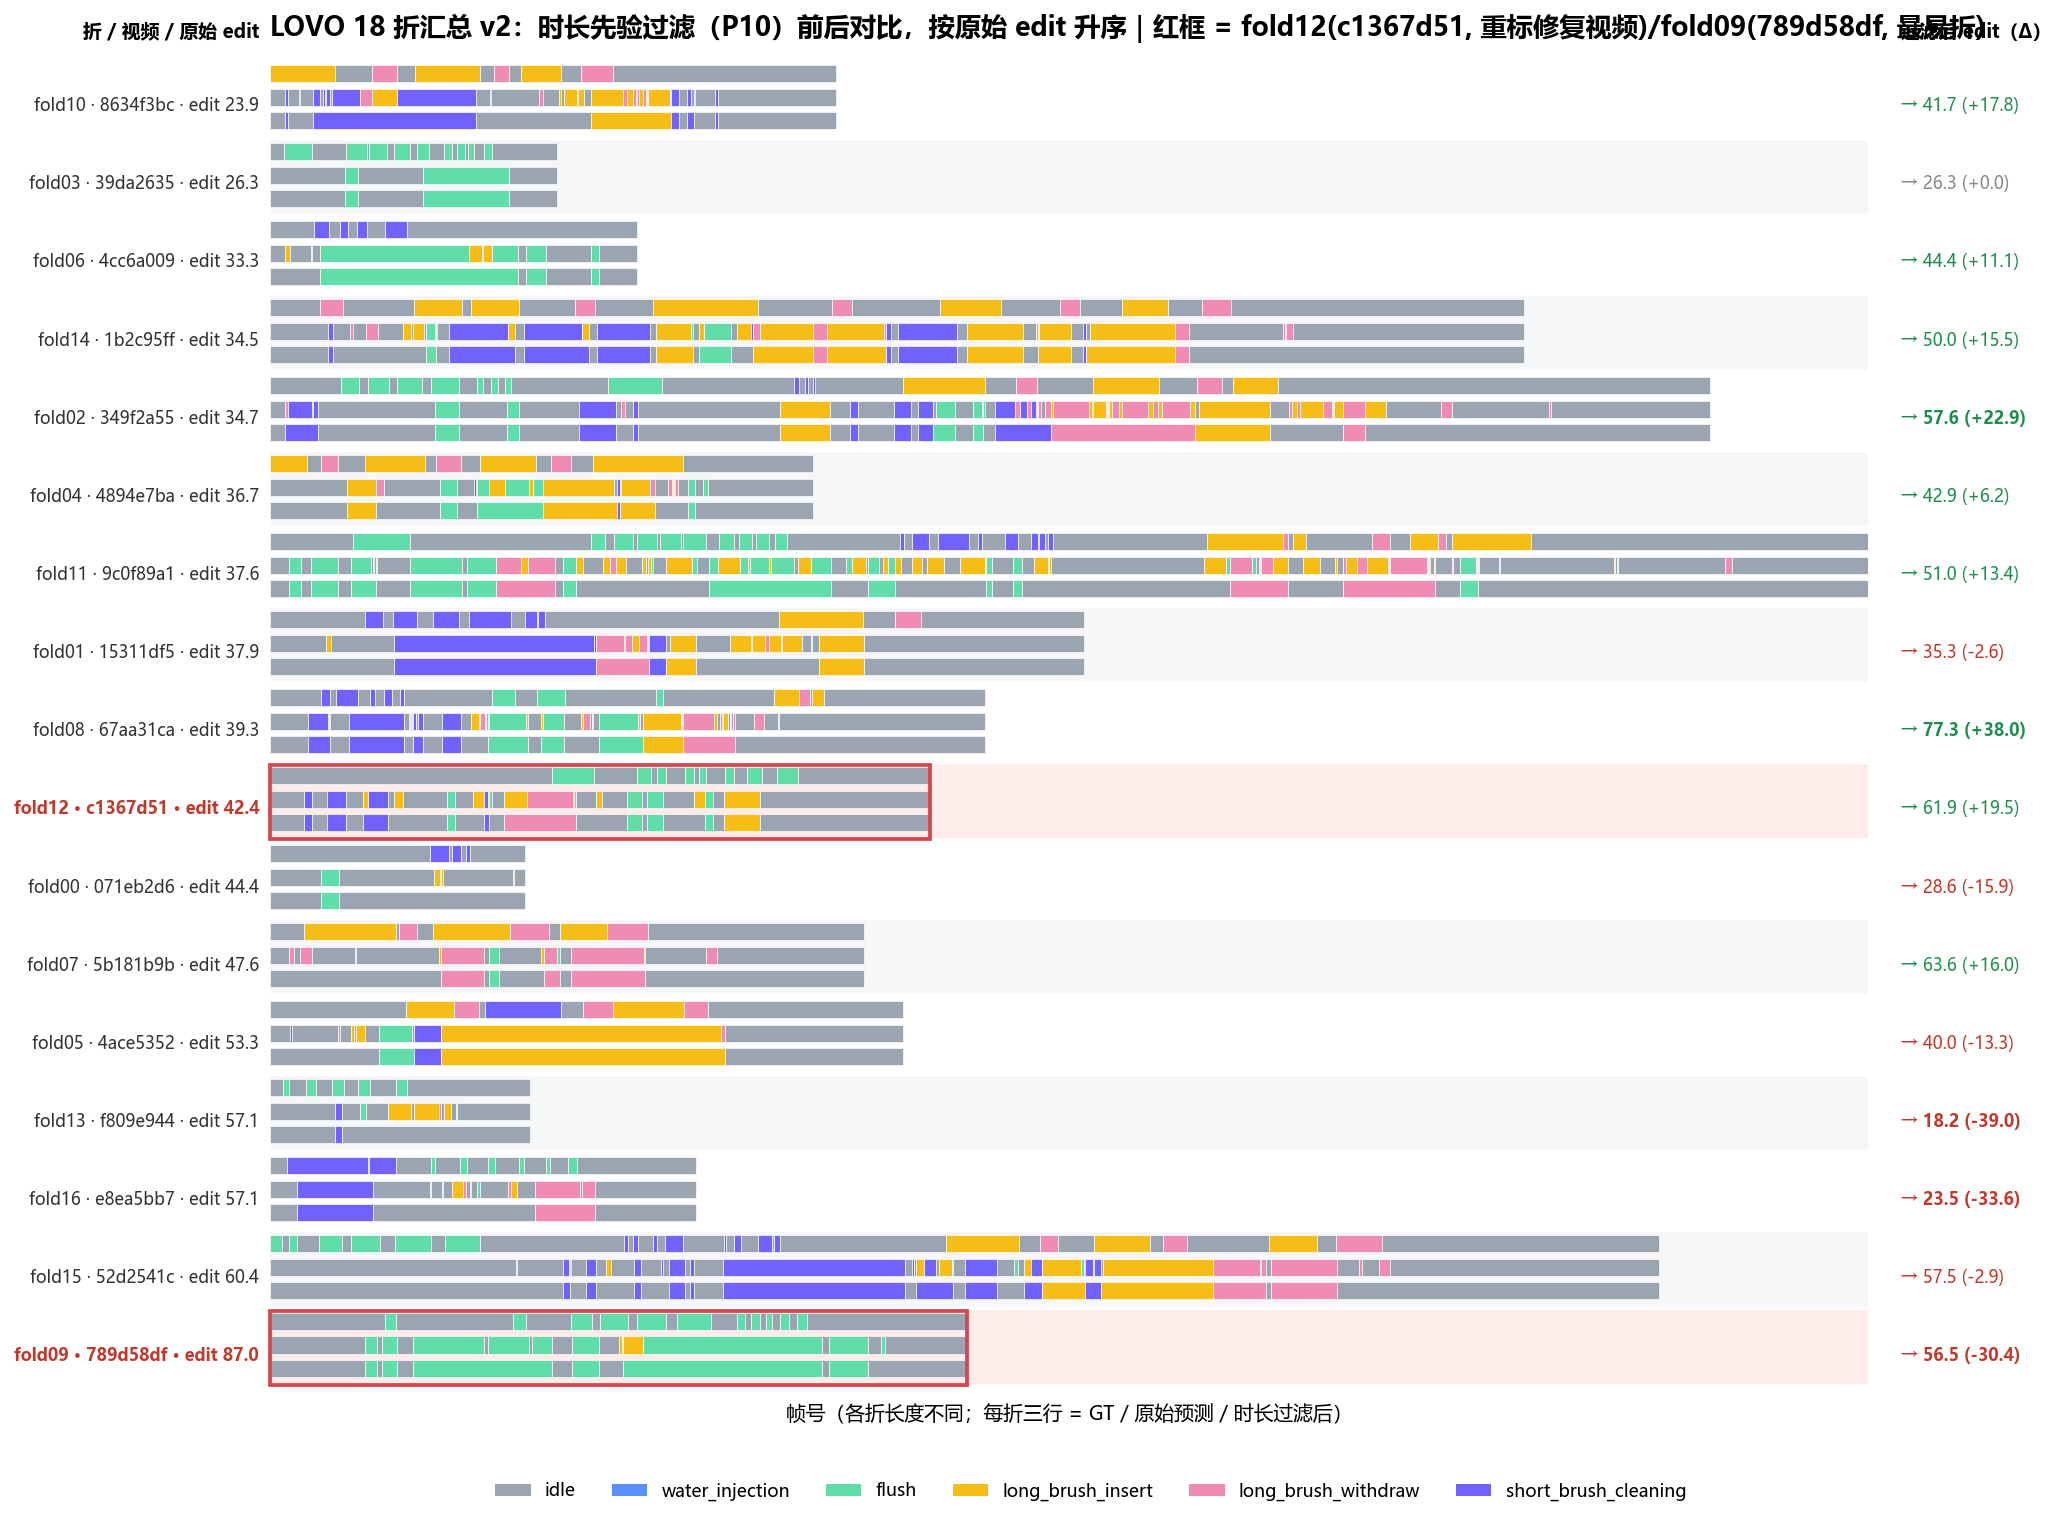
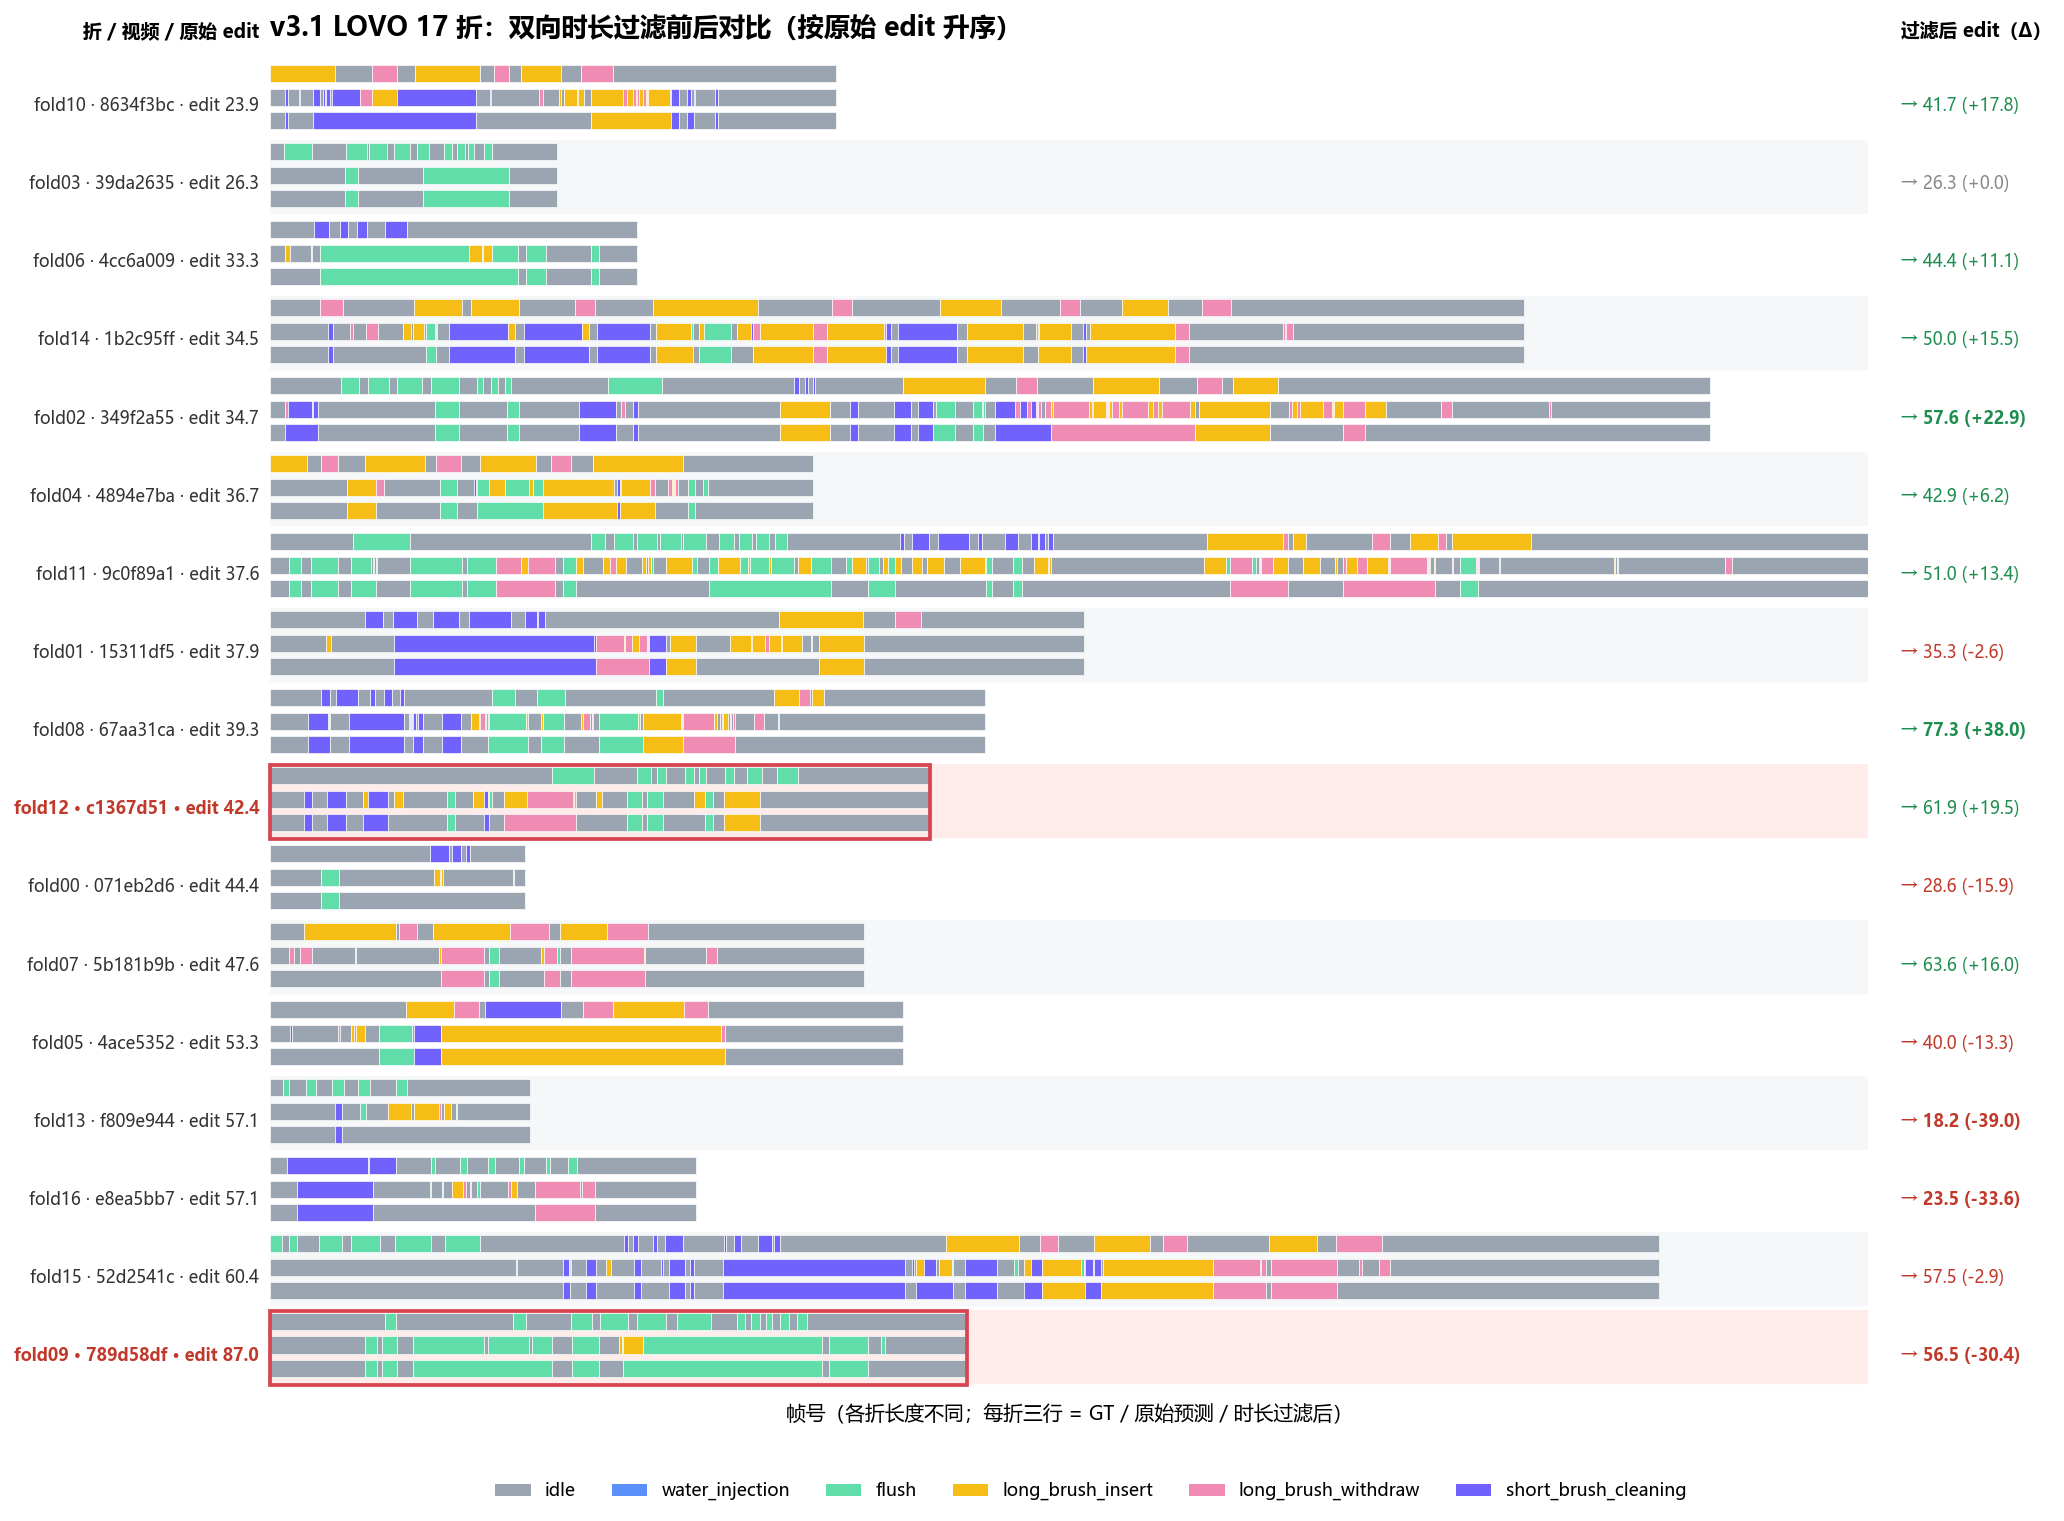
fix(assets): fig5 标题过长与右栏表头重叠——缩短标题并同步脚本

Changed region(s): [[0.124, 0.0, 0.9612, 0.0309], [0.062, 0.2163, 0.124, 0.2472], [0.062, 0.5562, 0.093, 0.5871]]

diff --git a/docs/assets/feature-lab/scripts/lovo_summary_v31.py b/docs/assets/feature-lab/scripts/lovo_summary_v31.py
@@ -139,8 +139,7 @@ ax.set_ylim(-0.3, N * ROW_H - 0.2)
 ax.set_yticks([]); ax.set_xticks([])
 ax.set_xlabel("帧号（各折长度不同；每折三行 = GT / 原始预测 / 时长过滤后）", fontsize=10.5)
 for s in ax.spines.values(): s.set_visible(False)
-ax.set_title("LOVO 18 折汇总 v2：时长先验过滤（P10）前后对比，按原始 edit 升序｜红框 = fold12(c1367d51, 重标修复视频)/fold09(789d58df, 最易折)",
-             fontsize=14, fontweight="bold", loc="left", pad=14)
+ax.set_title("v3.1 LOVO 17 折：双向时长过滤前后对比（按原始 edit 升序）", fontsize=14, fontweight="bold", loc="left", pad=14)
 handles = [plt.Rectangle((0,0),1,1, facecolor=c4(n)) for n in NAMES]
 fig.legend(handles, NAMES, fontsize=9.5, ncol=6, loc="lower center", bbox_to_anchor=(0.55, 0.012), frameon=False)
 
